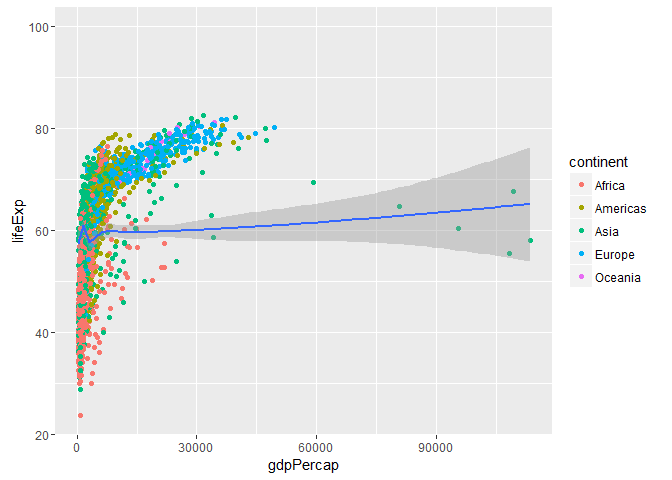
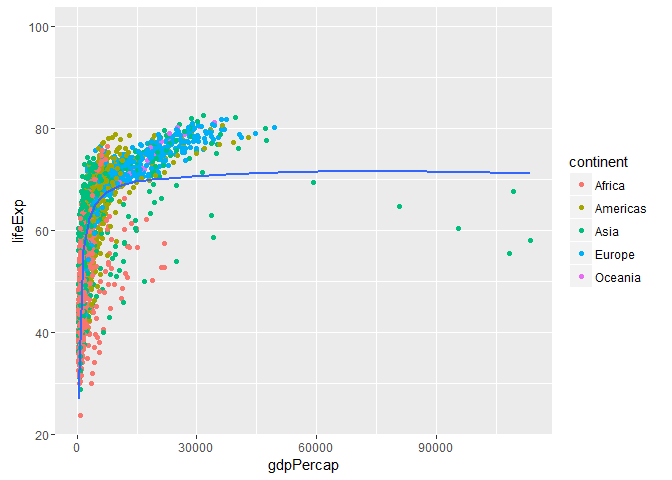
[e] some exposition and added in faceting to the density plots

Changed region(s): [[0.0938, 0.3125, 0.8125, 0.5625], [0.1562, 0.375, 0.2188, 0.4062]]

diff --git a/hw02_Exploring-Gapminder-with-tidyverse.md b/hw02_Exploring-Gapminder-with-tidyverse.md
@@ -21,7 +21,7 @@ That's why. I will be using the *random* package to make this interesting. Let's
 Initially, let us see what we are working with before any *<sub>CrA</sub>* *Z* *~<sub>~</sub> neSS ~<sub>~</sub>*.
 
 ``` r
-str(gapminder)  #Exploring tbl.df of gapminder, also could have formatted the script as in Chuck 4 (Summary)
+str(gapminder)  
 ```
 
     ## Classes 'tbl_df', 'tbl' and 'data.frame':    1704 obs. of  6 variables:
@@ -32,7 +32,13 @@ str(gapminder)  #Exploring tbl.df of gapminder, also could have formatted the sc
     ##  $ pop      : int  8425333 9240934 10267083 11537966 13079460 14880372 12881816 13867957 16317921 22227415 ...
     ##  $ gdpPercap: num  779 821 853 836 740 ...
 
-As expected this dataset is a tbl = tibble dataframe. Buckets of observations (1704) of the six tracked variables: country(factor), continent(factor), year(integer), life expectancy(double/float), population(integer), GDP per capita(double/float). We can also see there were 152 surveyed countries on all **five** continents. *<sub>looking</sub> <sub>at</sub> <sub>you</sub> **<sub>ANTarctica</sub>***
+``` r
+#Exploring tbl.df of gapminder, also could have formatted the script as in Chuck 4 (Summary)
+```
+
+As expected this dataset is a tbl = tibble dataframe. Buckets of observations (1704) of the six tracked variables: country(factor), continent(factor), year(integer), life expectancy(double/float), population(integer), GDP per capita(double/float). We can also see there were 152 surveyed countries on all **five** continents.
+
+*<sub>looking</sub> <sub>at</sub> <sub>you</sub> **<sub>ANTarctica</sub>***
 
 To be clear, Gapminder is a tibble dataframe with 1704 rows of observations catergorized by six columns of factors/variables. These variables and the corresponding flavours are listed above.
 
@@ -54,6 +60,39 @@ gapminder[,3:6] %>%
     ##  Max.   :2007   Max.   :82.60   Max.   :1.319e+09   Max.   :113523.1
 
 Here we can see the global maximums and minimums of all four quantitative data, in addition to the first and third quartiles, the median, and the mean. Let's only consider life expectancy and GDP for now with respect to countries and continents.
+
+Here are some histograms (actually they are density plots, since density &gt; histogram) of these two variables without respect to continent or country.
+
+``` r
+p_hist <- gapminder %>% 
+  ggplot()
+
+p_hist + geom_density(aes(x = lifeExp), alpha = 0.5)
+```
+
+![](hw02_Exploring-Gapminder-with-tidyverse_files/figure-markdown_github/Histograms-1.png)
+
+``` r
+p_hist + geom_density(aes(x = gdpPercap),alpha = 0.5)
+```
+
+![](hw02_Exploring-Gapminder-with-tidyverse_files/figure-markdown_github/Histograms-2.png)
+
+With respect to continents? <sub>(</sub> <sub>countries</sub> <sub>would</sub> <sub>be</sub> <sub>crazy</sub> <sub>)</sub>
+
+Sidenote: I was initially running into troubles with facet\_wrap and using the pipe function to isolate a variable from gapminder.
+
+``` r
+p_hist + facet_wrap(~ continent) + geom_density(aes(x = lifeExp), alpha = 0.5) 
+```
+
+![](hw02_Exploring-Gapminder-with-tidyverse_files/figure-markdown_github/unnamed-chunk-1-1.png)
+
+``` r
+p_hist + facet_wrap(~ continent) + geom_density(aes(x = gdpPercap), alpha = 0.5)
+```
+
+![](hw02_Exploring-Gapminder-with-tidyverse_files/figure-markdown_github/unnamed-chunk-2-1.png)
 
 Investigation of Socio-Ecomonics in Gapminder
 ---------------------------------------------
@@ -80,7 +119,7 @@ Interesting...I have an idea for a future homework assignment and if I get it do
 Anyways, let's plot this on a different scale.
 
 ``` r
-pt_lvg + geom_point(aes(x = log10(gdpPercap), y = log10(lifeExp), colour = continent))  
+pt_lvg + geom_point(aes(x = log10(gdpPercap), y = log10(lifeExp), colour = continent)) + geom_smooth(aes(x = log10(gdpPercap), y = log10(lifeExp)))
 ```
 
 ![](hw02_Exploring-Gapminder-with-tidyverse_files/figure-markdown_github/Replot-1.png)
@@ -88,6 +127,8 @@ pt_lvg + geom_point(aes(x = log10(gdpPercap), y = log10(lifeExp), colour = conti
 ``` r
 #or I could have added "+ scale_x_log10()" instead of two log10() :/
 ```
+
+Really interesting. There does appear to be some linear correlation, particularly in the middle of the plot, but the correlation breaks down at the fringes. Possibly due to unknown, unconsidered factors.
 
 ~~ Pearson's Correlation Coefficient & Coefficient of Determination~~
 
@@ -115,13 +156,13 @@ Back to business.
 plot(lifeExp ~ continent, data = gapminder)
 ```
 
-![](hw02_Exploring-Gapminder-with-tidyverse_files/figure-markdown_github/unnamed-chunk-1-1.png)
+![](hw02_Exploring-Gapminder-with-tidyverse_files/figure-markdown_github/unnamed-chunk-3-1.png)
 
 ``` r
 plot(log10(gdpPercap) ~ continent, data = gapminder)
 ```
 
-![](hw02_Exploring-Gapminder-with-tidyverse_files/figure-markdown_github/unnamed-chunk-1-2.png)
+![](hw02_Exploring-Gapminder-with-tidyverse_files/figure-markdown_github/unnamed-chunk-3-2.png)
 
 The above trends may reflect the socio-economic status of a continent as life expectancy can be seen to correlate with GDP. Let's take a look to see if this trend holds up for different places. Let us make an arbitrary decision on which countries to investigate. *INCOMING: random data retreiver*
 
@@ -137,15 +178,12 @@ name.list <- country_names[cnm,]
 print(name.list)
 ```
 
-    ## # A tibble: 6 × 1
-    ##                  country
-    ##                   <fctr>
-    ## 1                Bolivia
-    ## 2 Bosnia and Herzegovina
-    ## 3          Cote d'Ivoire
-    ## 4            El Salvador
-    ## 5        Slovak Republic
-    ## 6               Slovenia
+    ## # A tibble: 3 × 1
+    ##       country
+    ##        <fctr>
+    ## 1 New Zealand
+    ## 2      Zambia
+    ## 3    Zimbabwe
 
 ``` r
 new_gp <- gapminder %>% 
@@ -157,17 +195,17 @@ new_gp_data <- new_gp %>%
 print(new_gp)
 ```
 
-    ## # A tibble: 72 × 6
-    ##    country continent  year lifeExp     pop gdpPercap
-    ##     <fctr>    <fctr> <int>   <dbl>   <int>     <dbl>
-    ## 1  Bolivia  Americas  1952  40.414 2883315  2677.326
-    ## 2  Bolivia  Americas  1957  41.890 3211738  2127.686
-    ## 3  Bolivia  Americas  1962  43.428 3593918  2180.973
-    ## 4  Bolivia  Americas  1967  45.032 4040665  2586.886
-    ## 5  Bolivia  Americas  1972  46.714 4565872  2980.331
-    ## 6  Bolivia  Americas  1977  50.023 5079716  3548.098
-    ## 7  Bolivia  Americas  1982  53.859 5642224  3156.510
-    ## 8  Bolivia  Americas  1987  57.251 6156369  2753.691
-    ## 9  Bolivia  Americas  1992  59.957 6893451  2961.700
-    ## 10 Bolivia  Americas  1997  62.050 7693188  3326.143
-    ## # ... with 62 more rows
+    ## # A tibble: 36 × 6
+    ##        country continent  year lifeExp     pop gdpPercap
+    ##         <fctr>    <fctr> <int>   <dbl>   <int>     <dbl>
+    ## 1  New Zealand   Oceania  1952   69.39 1994794  10556.58
+    ## 2  New Zealand   Oceania  1957   70.26 2229407  12247.40
+    ## 3  New Zealand   Oceania  1962   71.24 2488550  13175.68
+    ## 4  New Zealand   Oceania  1967   71.52 2728150  14463.92
+    ## 5  New Zealand   Oceania  1972   71.89 2929100  16046.04
+    ## 6  New Zealand   Oceania  1977   72.22 3164900  16233.72
+    ## 7  New Zealand   Oceania  1982   73.84 3210650  17632.41
+    ## 8  New Zealand   Oceania  1987   74.32 3317166  19007.19
+    ## 9  New Zealand   Oceania  1992   76.33 3437674  18363.32
+    ## 10 New Zealand   Oceania  1997   77.55 3676187  21050.41
+    ## # ... with 26 more rows
